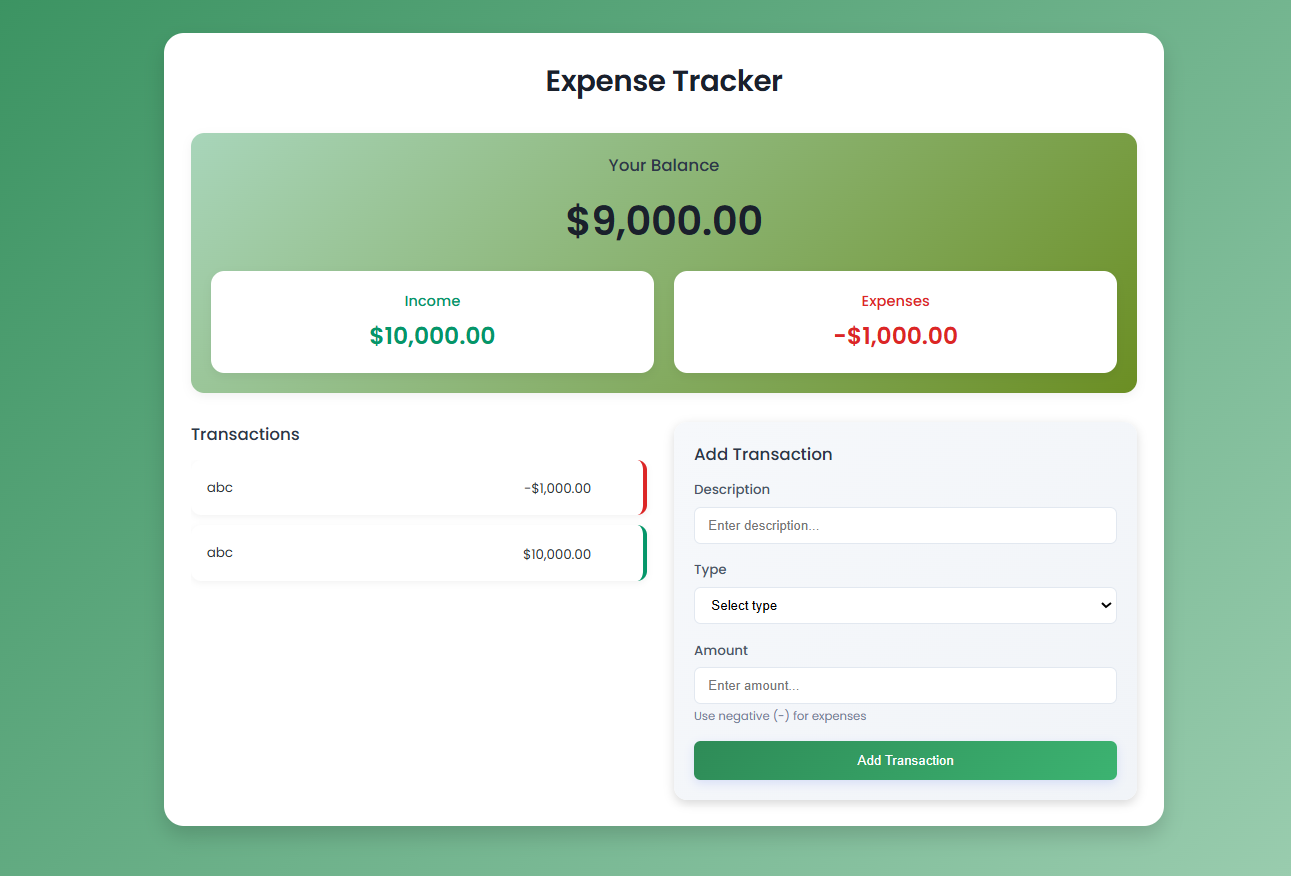
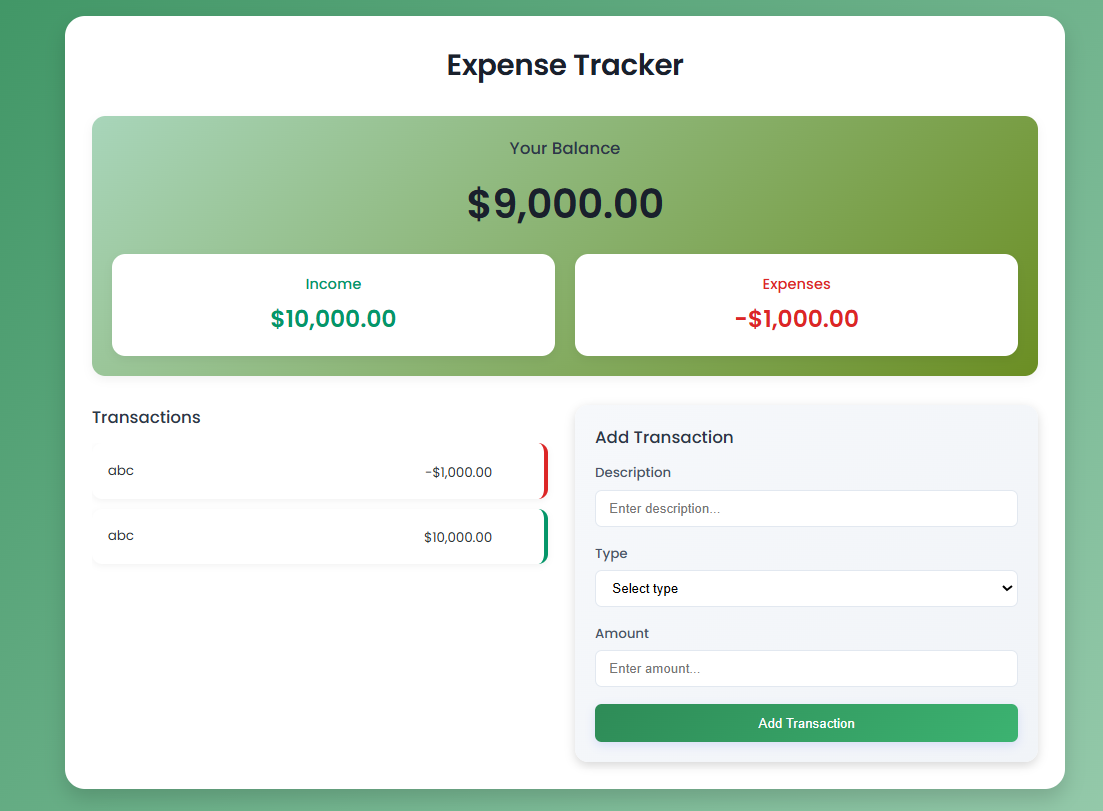
updating css and README.md

Changed region(s): [[0.0617, 0.0, 0.9864, 0.9864], [0.3699, 0.6165, 0.4624, 0.6782], [0.4007, 0.5549, 0.4624, 0.5857]]

diff --git a/index.html b/index.html
@@ -60,7 +60,6 @@
                     <div class="form-group">
                         <label for="amount">Amount</label>
                         <input type="number" id="amount" placeholder="Enter amount..." required />
-                        <small>Use negative (-) for expenses</small>
                     </div>
 
                     <button type="submit">Add Transaction</button>

diff --git a/style.css b/style.css
@@ -33,6 +33,7 @@ h1 {
   letter-spacing: -0.5px;
 }
 
+
 h2 {
   color: #2d3748;
   margin-bottom: 1rem;
@@ -251,13 +252,6 @@ input:hover {
 
 .type-input:focus{
   border-color: #667eea;
-}
-
-small {
-  color: #718096;
-  font-size: 0.875rem;
-  margin-top: 4px;
-  display: block;
 }
 
 button[type="submit"] {
